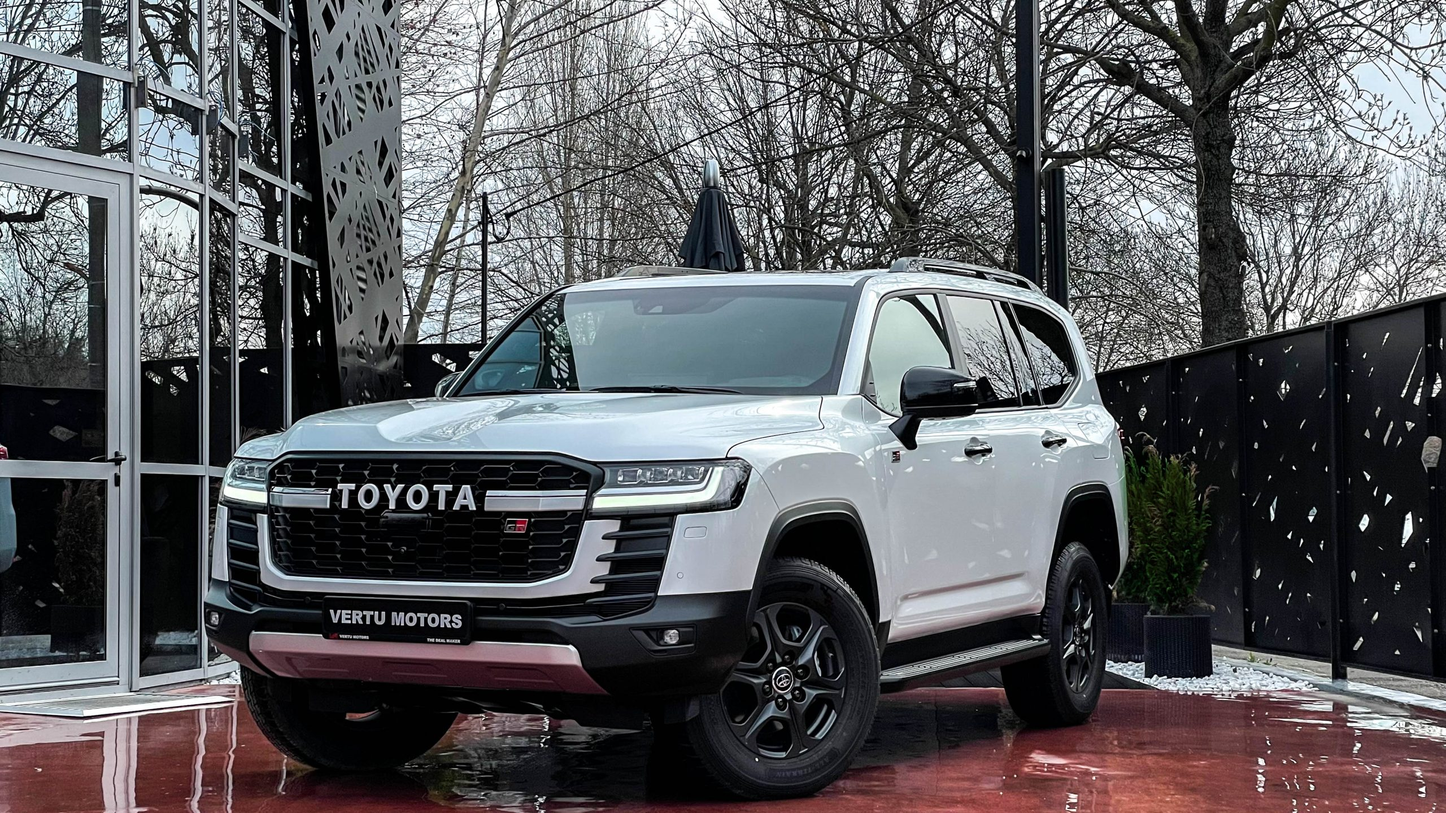
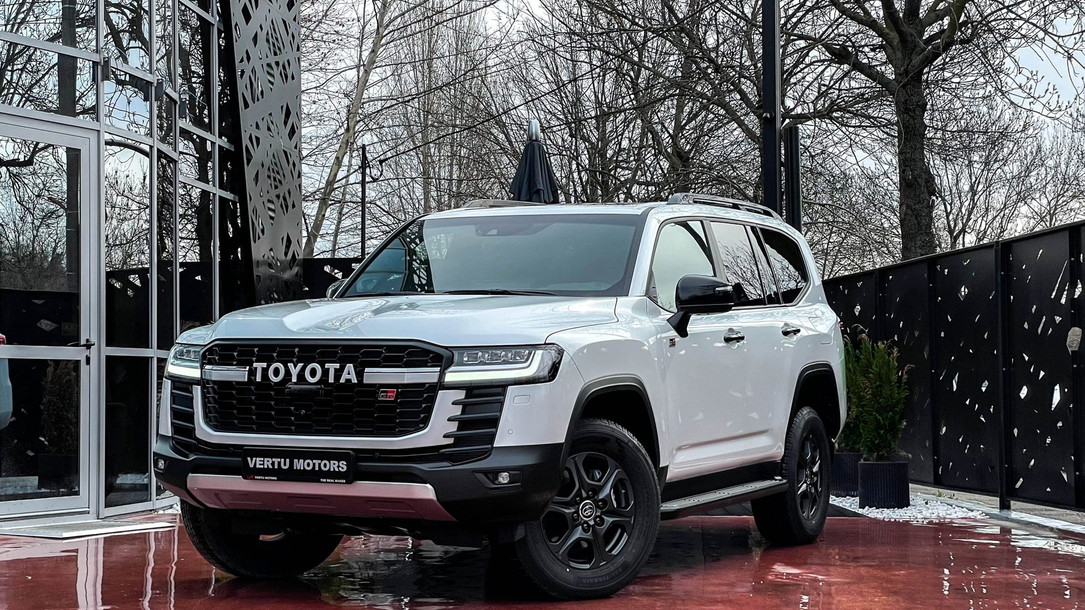
Compress oversized hero/background images for mobile load times
Several images were being served at raw camera resolution (up to
7952x5304, 28MB) with no compression, badly hurting mobile page
load. Resized the largest offenders to a 1920px max edge and
re-encoded at JPEG quality 82, and converted three photographic
PNGs (top.png, q.png, hilux.png) to JPEG since they had no
transparency. Total size for these files dropped from ~68MB to
~3MB with no visible quality loss.

diff --git a/Frontend/src/pages/VehicleList.jsx b/Frontend/src/pages/VehicleList.jsx
@@ -8,7 +8,7 @@ import VehicleCard from '../components/VehicleCard';
 import ComparisonModal from '../components/ComparisonModal';
 import API_BASE_URL from '../config';
 import { Link } from 'react-router-dom';
-import hiluxImage from '../assets/vehicles/hilux.png';
+import hiluxImage from '../assets/vehicles/hilux.jpg';
 
 // id нь vehicle.category-той тохирдог өгөгдлийн утга тул монгол хэвээр байлгав; labelKey нь зөвхөн харуулах орчуулга
 const categories = [

diff --git a/Frontend/src/pages/Home.jsx b/Frontend/src/pages/Home.jsx
@@ -12,7 +12,7 @@ import background1 from '../assets/home/background-1.jpg';
 import background2 from '../assets/home/background-2.jpg';
 import background3 from '../assets/home/background-3.jpg';
 import serviceImage from '../assets/home/service.jpg';
-import chiglelImage from '../assets/home/top.png';
+import chiglelImage from '../assets/home/top.jpg';
 import placeholderImage from '../assets/vehicles/hero.jpg';
 
 const Home = () => {

diff --git a/Frontend/src/pages/ToyotaQ.jsx b/Frontend/src/pages/ToyotaQ.jsx
@@ -21,7 +21,7 @@ import { useLocale } from '../hooks/useLocale';
 import { useDocumentTitle } from '../hooks/useDocumentTitle';
 import VehicleCard from '../components/VehicleCard';
 import API_BASE_URL from '../config';
-import toyotaQHero from '../assets/toyota-q/q.png';
+import toyotaQHero from '../assets/toyota-q/q.jpg';
 import inspection150 from '../assets/toyota-q/150.jpg';
 
 const ToyotaQ = () => {
